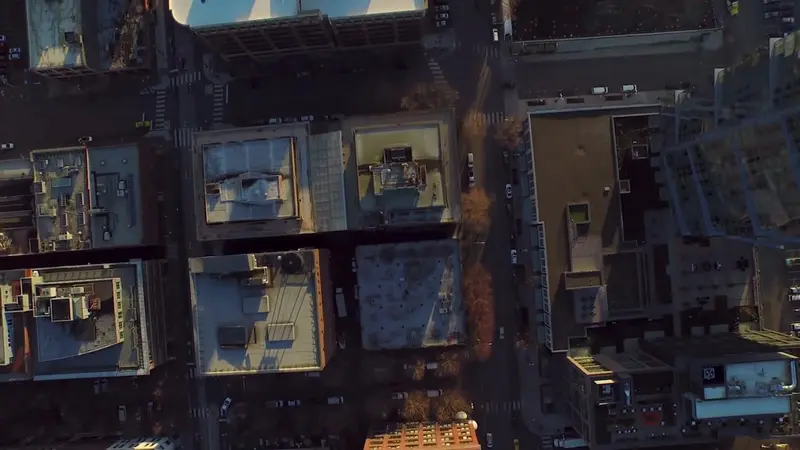
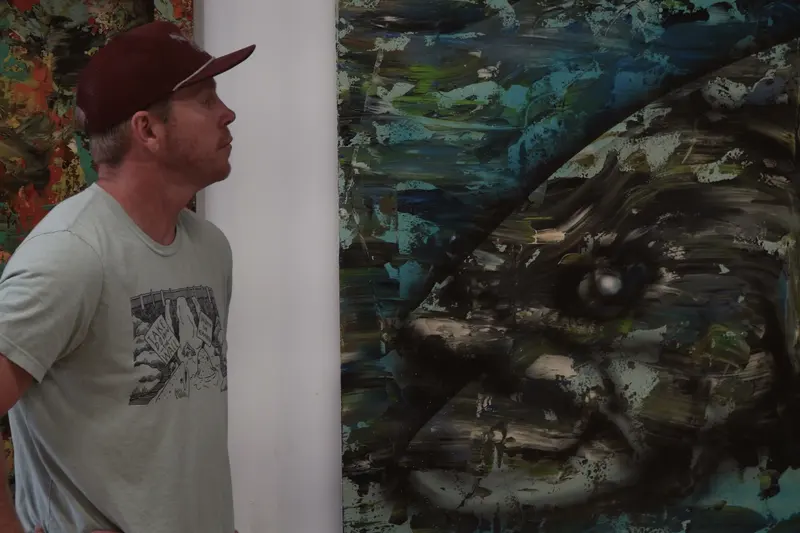
About: Videography card shows the Brushstrokes For Survival opening shot

diff --git a/about.html b/about.html
@@ -124,7 +124,7 @@
           <span class="offer-cta">Walk the gallery →</span>
         </a>
         <a class="offer-card offer-link" href="/films">
-          <div class="craft-media"><picture><source type="image/webp" srcset="images/about/craft-film-800.webp 800w, images/about/craft-film.webp 1600w" sizes="(max-width: 900px) 100vw, 33vw"><img src="images/about/craft-film.jpg" width="1600" height="900" decoding="async" loading="lazy" alt="Aerial view straight down onto city rooftops, a still from the film Fluid Frontier"></picture></div>
+          <div class="craft-media"><picture><source type="image/webp" srcset="images/about/craft-film-800.webp?v=2 800w, images/about/craft-film.webp?v=2 1600w" sizes="(max-width: 900px) 100vw, 33vw"><img src="images/about/craft-film.jpg?v=2" width="1600" height="1067" decoding="async" loading="lazy" alt="A man in a red cap studies a large steelhead painting, the opening shot of the film Brushstrokes For Survival"></picture></div>
           <h3>Videography</h3>
           <p class="craft-note">Cinematic storytelling from pre-production through final cut: documentary, commercial, social.</p>
           <span class="offer-cta">Watch the films →</span>
